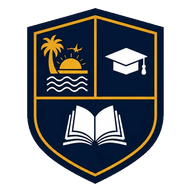
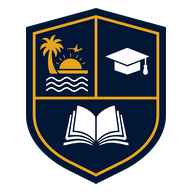
Sharp vector badge, full badge in the header, three-building dream scene
Redraw the school badge and shield as SVG in the school's own golds so they
stay crisp at every size, and use the full round badge in the header, the
motto card, the footer, the 404 page and the share card. Regenerate the
favicons and home-screen icons from the vectors, add an SVG favicon, and
remove the blurry raster badges. The dream illustration now shows the
school's three separate buildings.

Changed region(s): [[0.125, 0.0312, 0.875, 0.9688], [0.3125, 0.0625, 0.4062, 0.125], [0.625, 0.375, 0.6875, 0.4062]]

diff --git a/index.html b/index.html
@@ -8,6 +8,7 @@
 <!-- DRAFT: remove this line at launch so search engines can list the site -->
 <meta name="robots" content="noindex">
 <meta name="theme-color" content="#021636">
+<link rel="icon" href="assets/img/logo/shield.svg" type="image/svg+xml">
 <link rel="icon" href="assets/img/favicon-32.png" sizes="32x32" type="image/png">
 <link rel="icon" href="assets/img/icon-192.png" sizes="192x192">
 <link rel="apple-touch-icon" href="assets/img/apple-touch-icon.png">
@@ -23,8 +24,8 @@
 <meta name="twitter:card" content="summary_large_image">
 <script>document.documentElement.className += " js";</script>
 <link rel="preload" href="assets/fonts/fraunces.woff2" as="font" type="font/woff2" crossorigin>
-<link rel="stylesheet" href="assets/site.css?v=12">
-<script src="assets/site.js?v=12" defer></script>
+<link rel="stylesheet" href="assets/site.css?v=14">
+<script src="assets/site.js?v=14" defer></script>
 </head>
 <body>
 <a class="skip" href="#main">Skip to content</a>
@@ -32,7 +33,7 @@
 <header class="site-header">
   <div class="wrap header-inner">
     <a class="brand" href="#top" aria-label="Chankhasi Private School, back to the top">
-      <img class="brand-mark" src="assets/img/logo/shield-96.webp" srcset="assets/img/logo/shield-96.webp 75w, assets/img/logo/shield-144.webp 112w" sizes="36px" width="75" height="96" alt="">
+      <img class="brand-mark" src="assets/img/logo/badge.svg" width="240" height="240" alt="">
       <span class="brand-name">Chankhasi <small>Private School</small></span>
     </a>
     <button class="nav-toggle" type="button" aria-expanded="false" aria-controls="site-nav">
@@ -190,7 +191,7 @@
       </ol>
       <aside class="story-aside">
         <figure class="quote">
-          <img class="quote-badge" src="assets/img/logo/badge-240.webp" srcset="assets/img/logo/badge-240.webp 240w, assets/img/logo/badge-480.webp 480w" sizes="128px" width="240" height="240" alt="The Chankhasi Private School badge: a navy and gold shield with a palm tree and the sun rising over the lake, a graduation cap and an open book, ringed by stars and laurels, with the motto on a ribbon." loading="lazy" decoding="async">
+          <img class="quote-badge" src="assets/img/logo/badge.svg" width="240" height="240" alt="The Chankhasi Private School badge: a navy and gold shield with a palm tree and the sun rising over the lake, a graduation cap and an open book, ringed by stars and laurels, with the motto on a ribbon." loading="lazy" decoding="async">
           <blockquote><p><span class="qm">“</span>Do all the good you can.<span class="qm">”</span></p><p class="motto-ny"><span class="tbc" lang="ny" data-note="Our translation of the motto; no existing Chichewa version was found. Is it natural, and does the school already say the motto in Chichewa?">Chitani zabwino zonse zimene mungathe.</span></p></blockquote>
           <figcaption>The school motto, painted on the school sign</figcaption>
         </figure>
@@ -402,7 +403,7 @@
 <footer class="site-footer">
   <div class="wrap footer-inner">
     <div class="footer-brand">
-      <img class="footer-badge" src="assets/img/logo/badge-240.webp" srcset="assets/img/logo/badge-240.webp 240w, assets/img/logo/badge-480.webp 480w" sizes="96px" width="240" height="240" alt="" loading="lazy" decoding="async">
+      <img class="footer-badge" src="assets/img/logo/badge.svg" width="240" height="240" alt="" loading="lazy" decoding="async">
       <div>
         <p class="footer-name">Chankhasi Private School</p>
         <p class="footer-place">Nkhotakota, Malawi</p>

diff --git a/404.html b/404.html
@@ -8,10 +8,11 @@
 <title>Page not found · Chankhasi Private School</title>
 <meta name="robots" content="noindex">
 <meta name="theme-color" content="#f6eee1">
+<link rel="icon" href="assets/img/logo/shield.svg" type="image/svg+xml">
 <link rel="icon" href="assets/img/favicon-32.png" sizes="32x32" type="image/png">
 <link rel="icon" href="assets/img/icon-192.png" sizes="192x192">
 <link rel="apple-touch-icon" href="assets/img/apple-touch-icon.png">
-<link rel="stylesheet" href="assets/site.css?v=12">
+<link rel="stylesheet" href="assets/site.css?v=14">
 <style>
   .lost {
     min-height: 100vh;
@@ -30,7 +31,7 @@
 <body>
 <main class="lost">
   <div>
-    <img class="lost-badge" src="assets/img/logo/badge-240.webp" srcset="assets/img/logo/badge-240.webp 240w, assets/img/logo/badge-480.webp 480w" sizes="120px" width="240" height="240" alt="">
+    <img class="lost-badge" src="assets/img/logo/badge.svg" width="240" height="240" alt="">
     <h1>We cannot find that page.</h1>
     <p>It may have moved, or the link may be mistyped. The rest of the site is just a short walk away.</p>
     <a class="btn" href="./">Back to Chankhasi Private School</a>

diff --git a/assets/site.css b/assets/site.css
@@ -47,7 +47,7 @@
   --radius: 16px;
   --wrap: 1120px;
   --gutter: clamp(16px, 4vw, 32px);
-  --header-h: 64px;
+  --header-h: 72px;
   --serif: "Fraunces", Georgia, "Times New Roman", serif;
   --sans: system-ui, -apple-system, "Segoe UI", Roboto, "Helvetica Neue", Arial, sans-serif;
   color-scheme: light;
@@ -229,7 +229,7 @@ p { margin: 0 0 1em; text-wrap: pretty; }
   text-decoration: none;
 }
 @media (hover: hover) { .brand:hover { color: #fff; } }
-.brand-mark { width: auto; height: 46px; flex: none; }
+.brand-mark { width: 56px; height: 56px; flex: none; border-radius: 50%; box-shadow: 0 0 0 1.5px var(--gold); background: #fff; }
 .brand-name {
   display: flex;
   flex-direction: column;
@@ -962,7 +962,8 @@ section:not(.hero) { padding-block: clamp(72px, 10vw, 128px); }
 .note-pop[hidden] { display: none; }
 
 @media (orientation: landscape) and (max-height: 500px) {
-  :root { --header-h: 56px; }
+  :root { --header-h: 60px; }
+  .brand-mark { width: 46px; height: 46px; }
   .hero-text { padding-top: 24px; }
 }
 

diff --git a/tools/og.html b/tools/og.html
@@ -29,7 +29,7 @@
     <p class="eyebrow">Nkhotakota · Malawi</p>
     <h1>Chankhasi <span class="h1-line">Private School</span></h1>
   </div>
-  <img class="badge" src="../assets/img/logo/badge-480.webp" width="480" height="480" alt="">
+  <img class="badge" src="../assets/img/logo/badge.svg" width="240" height="240" alt="">
   <div class="art" id="art"></div>
   <script>
     fetch('../index.html').then(function (r) { return r.text(); }).then(function (html) {

diff --git a/tools/render_images.py b/tools/render_images.py
@@ -1,8 +1,8 @@
 #!/usr/bin/env python3
 """Render the share card (og.jpg) with headless Chrome.
 
-The favicons and home-screen icon come from the school badge in
-assets/img/logo and are not generated here.
+The favicons and home-screen icons are drawn from the vector badge and
+shield in assets/img/logo and are not generated here.
 
 Needs the local preview server running on port 8940, because the share
 card borrows the hero art straight from index.html.

diff --git a/README.md b/README.md
@@ -2,7 +2,7 @@
 
 A one-page website for Chankhasi Private School in Nkhandwe Village, near the shore of Lake Malawi about 15 km south of Nkhotakota town: Chankhasi Primary School, Canon Hunter Secondary School and the boarding houses.
 
-Hand-written static HTML and CSS with no build step, so it can be hosted free on GitHub Pages. Before any photos, the first visit is about 70 KB, which matters in Malawi where mobile data is slow and expensive. Photos are lazy-loaded WebP, sized for phones and desktops separately.
+Hand-written static HTML and CSS with no build step, so it can be hosted free on Cloudflare Pages. Before any photos, the first visit is about 70 KB, which matters in Malawi where mobile data is slow and expensive. Photos are lazy-loaded WebP, sized for phones and desktops separately.
 
 **Status: draft for review.** Facts still to be confirmed are wrapped in `<span class="tbc" data-note="...">`. While `<html>` carries the `draft` class they show in yellow, and hovering or tapping one shows the note explaining what needs checking.
 
@@ -25,10 +25,12 @@ then open http://localhost:8940.
 | `assets/site.css` | All styles |
 | `assets/site.js` | Menu, share button, contact form, draft review notes. The page works without it |
 | `assets/fonts/` | Fraunces, subset to Latin and trimmed to about 47 KB (SIL Open Font Licence) |
-| `assets/img/` | Favicon, home-screen icon and the link-preview card (`og.jpg`) |
+| `assets/img/` | Favicons, home-screen icons and the link-preview card (`og.jpg`) |
+| `assets/img/logo/` | The school badge and shield, redrawn as sharp vector files (SVG) from the badge the school uses |
+| `assets/img/illustrations/` | The drawn scenes of the school and its pupils, used instead of photos of children |
 | `assets/img/photos/` | The site's photos, cropped and compressed, at two or three sizes each |
 | `tools/build_map.py` | Draws the map of Malawi from Natural Earth data and writes it into `index.html` between the `MAP:START` and `MAP:END` markers |
-| `tools/render_images.py` | Renders `og.jpg` and the icons with headless Chrome (needs the preview server running) |
+| `tools/render_images.py` | Renders `og.jpg` with headless Chrome (needs the preview server running) |
 | `tools/process_photos.py` | Crops and compresses cleared originals from `tools/photos-src/` (kept out of git) into `assets/img/photos/` |
 | `tools/build_preview.py` | Bundles the page into one self-contained HTML file (inline CSS, JS and fonts) for sharing as a single file |
 
@@ -92,9 +94,9 @@ Everything below is highlighted on the draft.
 - The proverbs were checked against J. C. Chakanza, *Wisdom of the People: 2000 Chinyanja Proverbs* (2000), Nos. 608, 1035 and 1302; spellings follow the Malawi Institute of Education, with the curly apostrophe (’)
 
 **Also useful**
-- [ ] The school's badge or logo, if it has one (the sun-over-the-lake mark is a stand-in)
+- [x] The school's badge, now on the site as a vector redraw. Worth asking the school whether it has the original artwork file
 - [ ] A photo for the remaining dashed space (visitors with pupils). No photos of people go on the site without explicit approval.
-- [ ] Families' permission, through the head teacher, before any photo showing a pupil's face or anything that identifies them. The two classroom photos on the page are cropped so no pupil can be recognised; a third (a pupil at a bench) is held back until her family agrees.
+- [ ] Families' permission, through the head teacher, before any photo showing a pupil's face or anything that identifies them. Until then, pupils appear only in drawings, and the only photos are of the sign and the buildings.
 
 ## The old website and domain
 
